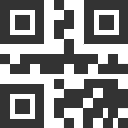
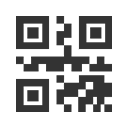
hoy

diff --git a/content/code.js b/content/code.js
@@ -1,0 +1,59 @@
+chrome.runtime.onMessage.addListener(function(request, sender, sendResponse) {
+	if(request.action == 'showQrCode'){
+		if(document.getElementsByClassName('mt-qrcode-blur').length > 0){
+			return false;
+		}
+
+		var qrCodeAlg = new QRCodeAlg(window.location.href, 3);
+		var createCanvas = function(config){
+		    var qrCodeAlg = config.qrCodeAlg;
+		    var canvas = document.createElement('canvas');
+		    var ctx = canvas.getContext('2d');
+
+		    canvas.width = config.width;
+		    canvas.height = config.height;
+		   
+		    //计算每个点的长宽
+		    var tileW = (config.width / qrCodeAlg.getModuleCount()).toPrecision(4);
+		    var tileH = config.height / qrCodeAlg.getModuleCount().toPrecision(4);
+
+		    //绘制
+		    for (var row = 0; row < qrCodeAlg.getModuleCount(); row++) {
+		        for (var col = 0; col < qrCodeAlg.getModuleCount(); col++) {
+		            ctx.fillStyle = qrCodeAlg.modules[row][ col] ? config.foreground : config.background;
+		            var w = (Math.ceil((col + 1) * tileW) - Math.floor(col * tileW));
+		            var h = (Math.ceil((row + 1) * tileW) - Math.floor(row * tileW));
+		            ctx.fillRect(Math.round(col * tileW), Math.round(row * tileH), w, h);
+		        }
+		    }
+
+		    return canvas;
+		};
+
+		var canvas = createCanvas({
+	        width: 250,
+	        height: 250,
+	        background: '#ffffff',
+	        foreground: '#000000',
+	        qrCodeAlg: qrCodeAlg
+	    });
+
+		var box = document.createElement('div');
+		box.setAttribute('class', 'mt-qrcode-box');
+		box.appendChild(canvas);
+		
+	    var bodyWrap = document.createElement('div');
+	    bodyWrap.setAttribute('class', 'mt-qrcode-blur');
+	    bodyWrap.style.visibility = 'hidden';
+	    bodyWrap.appendChild(document.body.cloneNode(true));
+
+	    document.body.appendChild(bodyWrap);
+
+	    bodyWrap.style.marginLeft = (bodyWrap.offsetWidth/-2) +'px';
+	    bodyWrap.style.visibility = 'visible';
+
+	    document.body.appendChild(box);
+	    document.body.style.overflow = 'hidden';
+	    box.className = 'mt-qrcode-box mt-qrcode-box-active';
+	}
+});

diff --git a/content/main.css b/content/main.css
@@ -1,0 +1,12 @@
+.mt-qrcode-blur {position:absolute;top:0;left:50%;z-index:20000;width:100%;-webkit-filter:blur(2px);left:50%;}
+
+.mt-qrcode-box {position:fixed;top:50%;left:50%;z-index:20001;margin:-140px 0 0 -140px;width:280;height:280;opacity:.9;}
+	.mt-qrcode-box:after {content:'';position:fixed;top:0;left:0;right:0;bottom:0;z-index:0;background:#000;opacity:0.2;}
+	.mt-qrcode-box canvas {position:relative;z-index:1;padding:15px;border-radius:10px;background:#fff;}
+
+
+
+
+
+
+

diff --git a/popup.js b/popup.js
@@ -3,8 +3,6 @@ var createCanvas = function(config){
     var canvas = document.createElement('canvas');
     var ctx = canvas.getContext('2d');
 
-    console.log(qrCodeAlg);
-
     canvas.width = config.width;
     canvas.height = config.height;
    
@@ -24,8 +22,8 @@ var createCanvas = function(config){
 
     return canvas;
 }
-//返回绘制的节点
 
+//返回绘制的节点
 chrome.tabs.getSelected(null, function(tab) {
     var qrCodeAlg = new QRCodeAlg(tab.url, 3);
 

diff --git a/background.js b/background.js
@@ -1,0 +1,13 @@
+//接受消息
+chrome.extension.onRequest.addListener(function(data, sender, sendResponse){
+
+});
+
+//监听icon点击事件
+chrome.browserAction.onClicked.addListener(function(tab){
+	chrome.tabs.query({active: true, currentWindow: true}, function(tabs) {
+		chrome.tabs.sendMessage(tabs[0].id, {action: 'showQrCode'}, function(response) {
+			console.log(response.farewell);
+		});
+	});
+})
